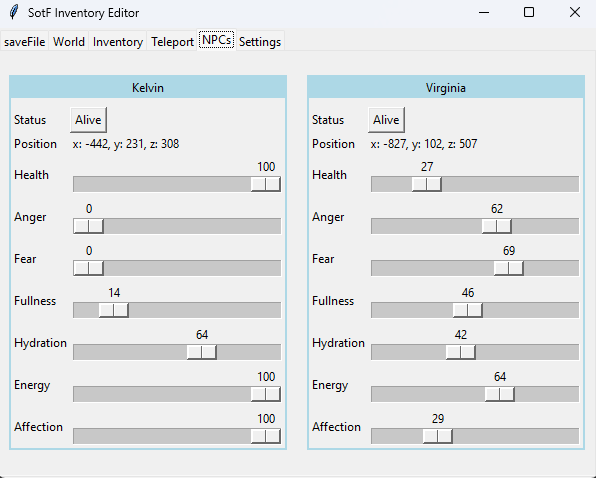
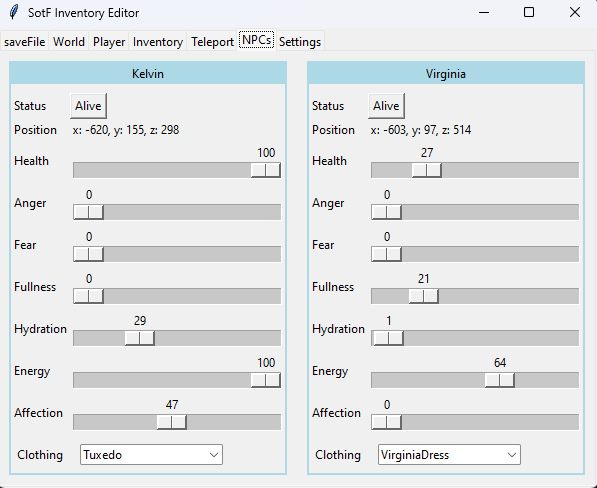
added npc clothing

diff --git a/src/TkNPCTab.py b/src/TkNPCTab.py
@@ -1,4 +1,5 @@
 import tkinter as tk
+from tkinter import ttk
 from ttkwidgets import TickScale
 from SavefileLoader import SavefileLoader
 import json
@@ -65,6 +66,12 @@ class TkNPCTab(tk.Frame):
         kelvinFrame.grid_columnconfigure(1, weight=1)
         
         self.kelvin = Kelvin()
+                
+        for actor in self.savefileLoader.actors:
+            if actor["TypeId"] == 9:
+                self.kelvinActor = actor
+                break
+        
         tk.Label(kelvinFrame, text=self.kelvin.name, anchor="center", bg="lightblue").grid(row=0, column=0, columnspan=2, sticky="new")
         tk.Label(kelvinFrame, text="Status", anchor="w").grid(row=1, column=0, sticky="nesw")
         self.kelvinStatusVar = tk.StringVar(self)
@@ -74,6 +81,7 @@ class TkNPCTab(tk.Frame):
         self.kelvinPositionVar = tk.StringVar(self)
         tk.Label(kelvinFrame, textvariable=self.kelvinPositionVar, anchor="w").grid(row=2, column=1, sticky="nesw")
         
+        #scales
         for index, stat in enumerate(self.kelvin.stats):
             tk.Label(kelvinFrame, text=stat.name, anchor="w").grid(row=index+3, column=0, sticky="nesw")
             
@@ -82,12 +90,20 @@ class TkNPCTab(tk.Frame):
                              command=lambda event=None, npcName="Kelvin", statIndex=index, statValue=stat.value: 
                                  self.onStatChange(npcName, statIndex, statValue.get()))
             scale.grid(row=index+3, column=1, sticky="nesw")
-        
-        for actor in self.savefileLoader.actors:
-            if actor["TypeId"] == 9:
-                self.kelvinActor = actor
-                break
         self.readStats("Kelvin")
+        
+        #clothing
+        tk.Label(kelvinFrame, text="Clothing").grid(row=index+3+len(self.kelvin.stats), column=0)
+        with open("../res/kelvinClothing.json", "r") as file:
+            self.possibleKelvinClothingItems = json.loads(file.read())
+            
+        possibleKelvinClothingNames = [item["Name"] for item in self.possibleKelvinClothingItems]
+        self.kelvinClothingVar = tk.StringVar(kelvinFrame)
+        self.kelvinClothingVar.set(self.getClothingNameFromId("Kelvin", self.kelvinActor["OutfitId"]))
+        box = ttk.Combobox(kelvinFrame, textvariable=self.kelvinClothingVar, 
+                           values=possibleKelvinClothingNames, state="readonly")
+        box.bind("<<ComboboxSelected>>", lambda event=None, npcName="Kelvin": self.onClothingSelected(npcName))
+        box.grid(row=index+3+len(self.kelvin.stats), column=1, sticky="w", padx=10, pady=10)
 
     def initializeVirginia(self):
         virginiaFrame = tk.Frame(self, highlightthickness=2, highlightbackground="lightblue")
@@ -97,6 +113,14 @@ class TkNPCTab(tk.Frame):
         virginiaFrame.grid_columnconfigure(1, weight=1)
         
         self.virginia = Virginia()
+        
+        for actor in self.savefileLoader.actors:
+            if actor["TypeId"] == 10:
+                self.virginiaActor = actor
+                break
+        if self.virginiaActor is None:
+            self.createVirginia()
+        
         tk.Label(virginiaFrame, text=self.virginia.name, anchor="center", bg="lightblue").grid(row=0, column=0, columnspan=2, sticky="new")
         tk.Label(virginiaFrame, text="Status", anchor="w").grid(row=1, column=0, sticky="nesw")
         self.virginiaStatusVar = tk.StringVar(self)
@@ -106,6 +130,7 @@ class TkNPCTab(tk.Frame):
         self.virginiaPositionVar = tk.StringVar(self)
         tk.Label(virginiaFrame, textvariable=self.virginiaPositionVar, anchor="w").grid(row=2, column=1, sticky="nesw")
         
+        #scales
         for index, stat in enumerate(self.virginia.stats):
             tk.Label(virginiaFrame, text=stat.name, anchor="w").grid(row=index+3, column=0, sticky="nesw")
             
@@ -114,16 +139,41 @@ class TkNPCTab(tk.Frame):
                              command=lambda event=None, npcName="Virginia", statIndex=index, statValue=stat.value: 
                                  self.onStatChange(npcName, statIndex, statValue.get()))
             scale.grid(row=index+3, column=1, sticky="nesw")
-    
-        for actor in self.savefileLoader.actors:
-            if actor["TypeId"] == 10:
-                self.virginiaActor = actor
-                break
-        if self.virginiaActor is None:
-            self.createVirginia()
-            
         self.readStats("Virginia")
+        
+        #clothing
+        tk.Label(virginiaFrame, text="Clothing").grid(row=index+3+len(self.virginia.stats), column=0)
+        with open("../res/virginiaClothing.json", "r") as file:
+            self.possibleVirginiaClothingItems = json.loads(file.read())
+            
+        possibleVirginiaClothingNames = [item["Name"] for item in self.possibleVirginiaClothingItems]
+        self.virginiaClothingVar = tk.StringVar(virginiaFrame)
+        self.virginiaClothingVar.set(self.getClothingNameFromId("Virginia", self.virginiaActor["OutfitId"]))
+        box = ttk.Combobox(virginiaFrame, textvariable=self.virginiaClothingVar, 
+                           values=possibleVirginiaClothingNames, state="readonly")
+        box.bind("<<ComboboxSelected>>", lambda event=None, npcName="Virginia": self.onClothingSelected(npcName))
+        box.grid(row=index+3+len(self.virginia.stats), column=1, sticky="w", padx=10, pady=10)
+        
+    def findClothingByName(self, npcName, clothingName):
+        possibleClothingItems = self._findPossibleClothing(npcName)
+        for item in possibleClothingItems:
+            if item["Name"] == clothingName:
+                return item
 
+    def onClothingSelected(self, npcName):
+        clothingVar = self._findClothingVar(npcName)
+        clothingItem = self.findClothingByName(npcName, clothingVar.get())
+        print(f"{clothingItem['Name']} selected for {npcName}")
+        
+        npc = self._findActor(npcName)
+        npc["OutfitId"] = clothingItem["ItemId"]
+    
+    def getClothingNameFromId(self, npcName, itemId):
+        possibleClothingItems = self._findPossibleClothing(npcName)
+        for item in possibleClothingItems:
+            if itemId == item["ItemId"]:
+                return item["Name"]
+    
     def onButton(self, npcName):
         if self.isAlive(npcName):
             self.setStatus(npcName, "dead")
@@ -236,3 +286,15 @@ class TkNPCTab(tk.Frame):
             return self.kelvinPositionVar
         elif npcName == "Virginia":
             return self.virginiaPositionVar
+        
+    def _findPossibleClothing(self, npcName):
+        if npcName == "Kelvin":
+            return self.possibleKelvinClothingItems
+        elif npcName == "Virginia":
+            return self.possibleVirginiaClothingItems
+        
+    def _findClothingVar(self, npcName):
+        if npcName == "Kelvin":
+            return self.kelvinClothingVar
+        elif npcName == "Virginia":
+            return self.virginiaClothingVar

diff --git a/src/sotf_invedit.py b/src/sotf_invedit.py
@@ -42,7 +42,7 @@ inventoryLoader = savefileLoader.inventoryLoader
 
 window = tk.Tk()
 window.title("SotF Inventory Editor")
-window.geometry("600x450")
+window.geometry("600x460")
 createUiElements()
 
 
